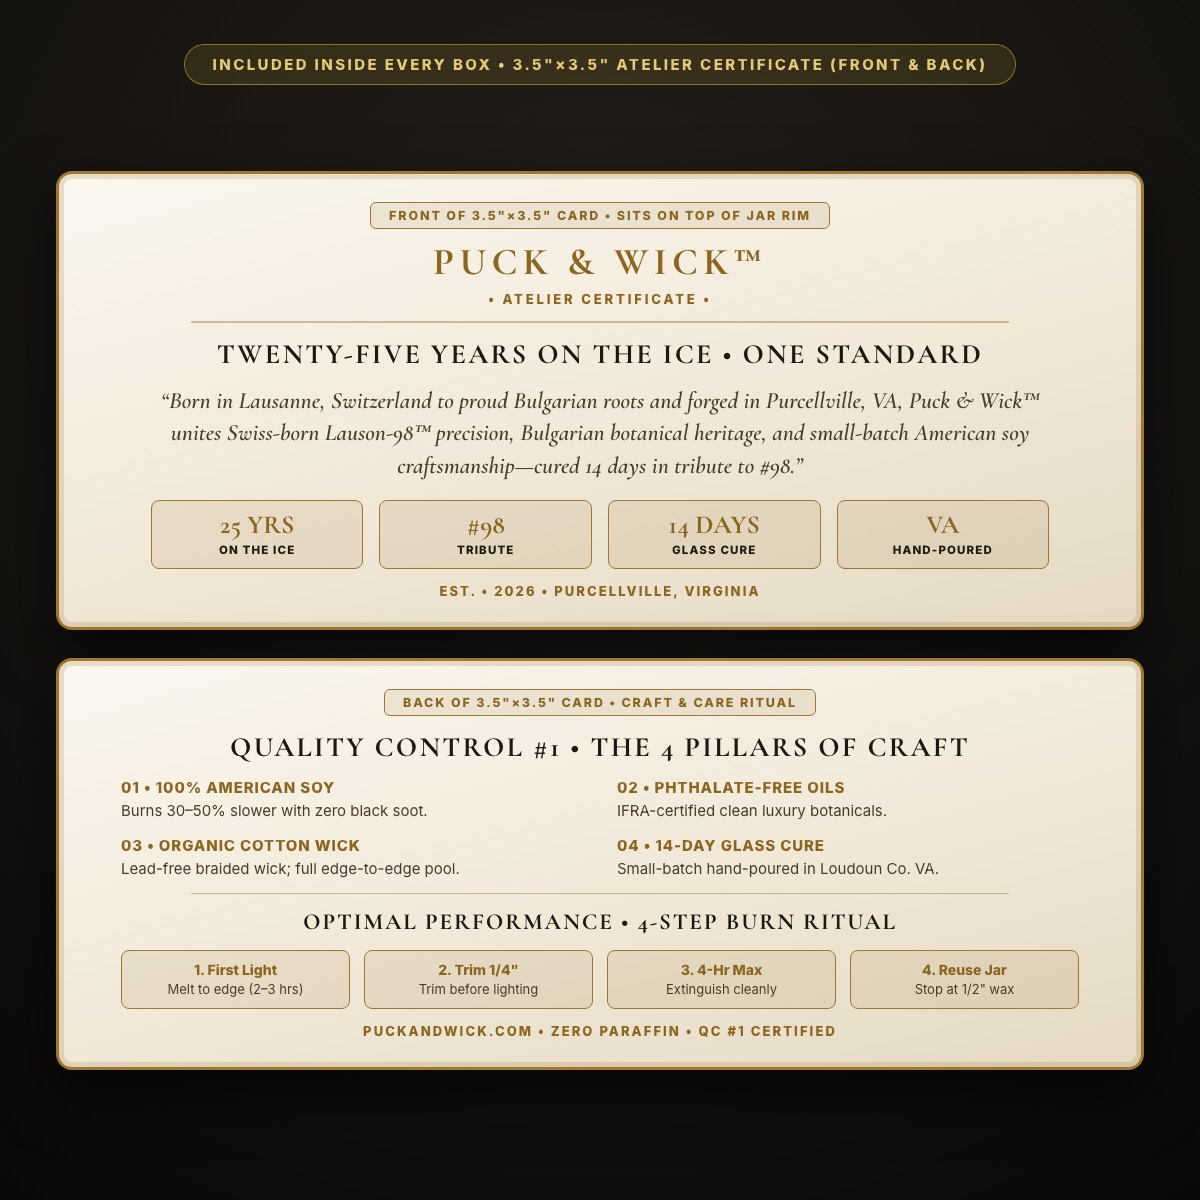
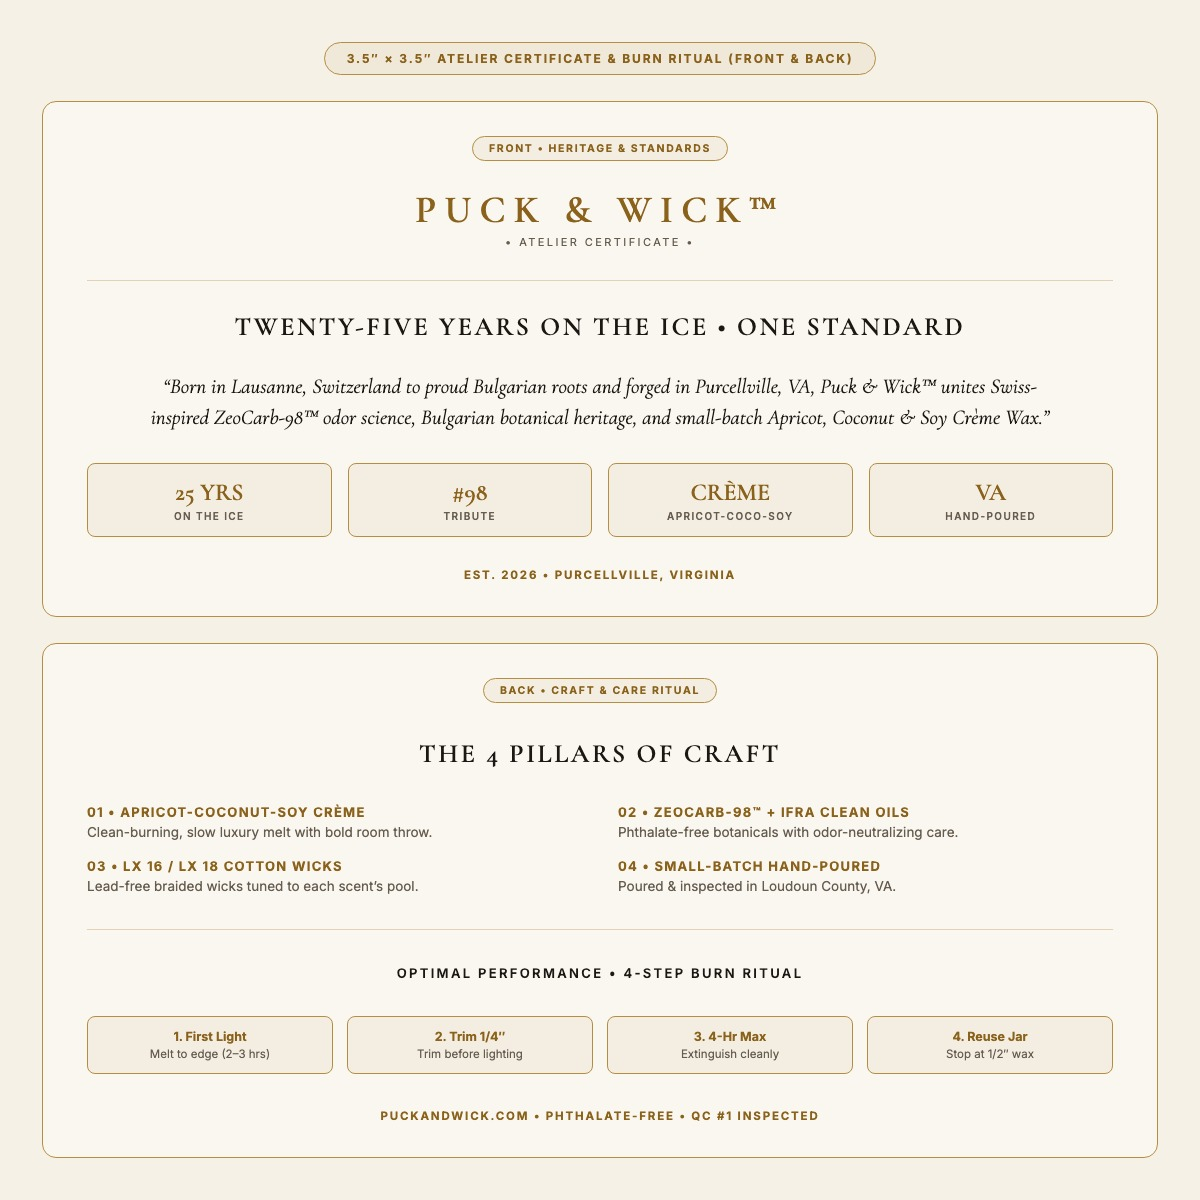
Simplify quick-view modal to Option A, update wicks to LX 16/LX 18, and refresh Atelier Cards

diff --git a/js/data/products.js b/js/data/products.js
@@ -29,9 +29,9 @@ export const PRODUCTS = [
     specUnitLabel: '10 oz Vessel (8.5 oz Fill)',
     burnTime: '55 - 65 hours',
     weightOz: 10,
-    vessel: '10 oz Heavy-Base Matte Obsidian Glass (8.5 oz / 240g Net Soy Fill) with Unbranded Brushed Gold Metal Lid',
+    vessel: '10 oz Matte Obsidian Glass (8.5 oz Fill) with Matte Black Lid',
     wax: 'Apricot, Coconut & American Soy Crème Wax + ZeoCarb-98™ Vapor Complex',
-    wick: 'Lead-Free Braided Organic Cotton Wick',
+    wick: 'LX 18 Braided Cotton Wick',
     description: 'Inspired by top-shelf snipes and championship prestige. A radiant, hypnotic master formulation opening with crushed crimson saffron threads and bitter almond, unfolding into airy Egyptian jasmine grandiflorum and Virginia white cedar, and anchored by crystalline ambergris, fir balsam resin, and warm amberwood.',
     notes: {
       top: ['Crimson Saffron Threads', 'Bitter Almond', 'Calabrian Bergamot'],
@@ -57,9 +57,9 @@ export const PRODUCTS = [
     specUnitLabel: '10 oz Vessel (8.5 oz Fill)',
     burnTime: '55 - 65 hours',
     weightOz: 10,
-    vessel: '10 oz Heavy-Base Matte Obsidian Glass (8.5 oz / 240g Net Soy Fill) with Unbranded Brushed Gold Metal Lid',
+    vessel: '10 oz Matte Obsidian Glass (8.5 oz Fill) with Matte Black Lid',
     wax: 'Apricot, Coconut & American Soy Crème Wax + ZeoCarb-98™ Vapor Complex',
-    wick: 'Lead-Free Braided Organic Cotton Wick',
+    wick: 'LX 18 Braided Cotton Wick',
     description: 'That sacred stillness when you step onto fresh sheet ice at 6:00 AM. Bright Italian bergamot and crisp grapefruit zest cut into sacred Japanese hinoki wood and frosted eucalyptus leaf, grounded by smoky earthy vetiver, warm amber, and sunlit orange blossom.',
     notes: {
       top: ['Italian Bergamot', 'Grapefruit Zest', 'Frosted Eucalyptus'],
@@ -85,9 +85,9 @@ export const PRODUCTS = [
     specUnitLabel: '10 oz Vessel (8.5 oz Fill)',
     burnTime: '55 - 65 hours',
     weightOz: 10,
-    vessel: '10 oz Heavy-Base Matte Obsidian Glass (8.5 oz / 240g Net Soy Fill) with Unbranded Brushed Gold Metal Lid',
+    vessel: '10 oz Matte Obsidian Glass (8.5 oz Fill) with Matte Black Lid',
     wax: 'Apricot, Coconut & American Soy Crème Wax + ZeoCarb-98™ Vapor Complex',
-    wick: 'Lead-Free Braided Organic Cotton Wick',
+    wick: 'LX 18 Braided Cotton Wick',
     description: 'Handcrafted exclusively in seasonal collaboration with The Blue Hydrangea boutique in Purcellville, VA. Captures the crisp scent of snow-laden Blue Ridge evergreens, resinous balsam fir, spiced clove bud, and smoky cedar embers.',
     notes: {
       top: ['Wild Juniper Berries', 'Fraser Pine', 'Spiced Clove Bud'],
@@ -117,9 +117,9 @@ export const PRODUCTS = [
     specUnitLabel: '10 oz Vessel (8.5 oz Fill)',
     burnTime: '55 - 65 hours',
     weightOz: 10,
-    vessel: '10 oz Heavy-Base Matte Obsidian Glass (8.5 oz / 240g Net Soy Fill) with Unbranded Brushed Gold Metal Lid',
+    vessel: '10 oz Matte Obsidian Glass (8.5 oz Fill) with Matte Black Lid',
     wax: 'Apricot, Coconut & American Soy Crème Wax + ZeoCarb-98™ Vapor Complex',
-    wick: 'Lead-Free Braided Organic Cotton Wick',
+    wick: 'LX 18 Braided Cotton Wick',
     description: 'The aromatic nostalgia of an outdoor pond hockey game followed by an open-fire tailgate. Aromatic red cedar boards, oiled leather glove patina, and crackling birchwood smoke softened by dark resinous musk.',
     notes: {
       top: ['Chilled Winter Air', 'Birchwood Smoke', 'Crushed Black Pepper'],
@@ -144,9 +144,9 @@ export const PRODUCTS = [
     specUnitLabel: '10 oz Vessel (8.5 oz Fill)',
     burnTime: '55 - 65 hours',
     weightOz: 10,
-    vessel: '10 oz Heavy-Base Matte Obsidian Glass (8.5 oz / 240g Net Soy Fill) with Unbranded Brushed Gold Metal Lid',
+    vessel: '10 oz Matte Obsidian Glass (8.5 oz Fill) with Matte Black Lid',
     wax: 'Apricot, Coconut & American Soy Crème Wax + ZeoCarb-98™ Vapor Complex',
-    wick: 'Lead-Free Braided Organic Cotton Wick',
+    wick: 'LX 18 Braided Cotton Wick',
     description: 'Engineered to wipe away mental fatigue and stale room air. A high-voltage surge of pure Tasmanian eucalyptus globulus, crushed garden spearmint, clary sage, and crisp mountain mineral salt.',
     notes: {
       top: ['Crushed Spearmint', 'Icy Peppermint Leaf', 'Lemon Rind'],
@@ -174,9 +174,9 @@ export const PRODUCTS = [
     specUnitLabel: '10 oz Vessel (8.5 oz Fill)',
     burnTime: '55 - 65 hours',
     weightOz: 10,
-    vessel: '10 oz Frosted Warm Ivory Glass (8.5 oz / 240g Net Soy Fill) with Unbranded Brushed Champagne-Gold Lid',
+    vessel: '10 oz Frosted Warm Ivory Glass (8.5 oz Fill) with Champagne-Gold Lid',
     wax: 'Apricot, Coconut & American Soy Crème Wax + ZeoCarb-98™ Vapor Complex',
-    wick: 'Lead-Free Braided Organic Cotton Wick',
+    wick: 'LX 16 / LX 18 Braided Cotton Wick',
     description: 'Poured in our signature Frosted Warm Ivory & Champagne-Gold Sanctuary vessel. A cozy, smoky winter sanctuary blend uniting warm spun cashmere and golden bergamot with dark smoked oud, Baltic amber, and creamy sandalwood.',
     notes: {
       top: ['Golden Bergamot', 'Smoked Birch'],
@@ -205,9 +205,9 @@ export const PRODUCTS = [
     specUnitLabel: '10 oz Vessel (8.5 oz Fill)',
     burnTime: '55 - 65 hours',
     weightOz: 10,
-    vessel: '10 oz Frosted Warm Ivory Glass (8.5 oz / 240g Net Soy Fill) with Unbranded Brushed Champagne-Gold Lid',
+    vessel: '10 oz Frosted Warm Ivory Glass (8.5 oz Fill) with Champagne-Gold Lid',
     wax: 'Apricot, Coconut & American Soy Crème Wax + ZeoCarb-98™ Vapor Complex',
-    wick: 'Lead-Free Braided Organic Cotton Wick',
+    wick: 'LX 16 / LX 18 Braided Cotton Wick',
     description: 'Poured in our signature Frosted Warm Ivory & Champagne-Gold Sanctuary vessel. Soft, enveloping, and effortlessly serene—bright bergamot opens into warm spun cashmere, soft vanilla, and creamy sandalwood over sheer skin musk.',
     notes: {
       top: ['Golden Bergamot', 'Powdered Vanilla'],
@@ -233,9 +233,9 @@ export const PRODUCTS = [
     specUnitLabel: '10 oz Vessel (8.5 oz Fill)',
     burnTime: '55 - 65 hours',
     weightOz: 10,
-    vessel: '10 oz Frosted Warm Ivory Glass (8.5 oz / 240g Net Soy Fill) with Unbranded Brushed Champagne-Gold Lid',
+    vessel: '10 oz Frosted Warm Ivory Glass (8.5 oz Fill) with Champagne-Gold Lid',
     wax: 'Apricot, Coconut & American Soy Crème Wax + ZeoCarb-98™ Vapor Complex',
-    wick: 'Lead-Free Braided Organic Cotton Wick',
+    wick: 'LX 16 / LX 18 Braided Cotton Wick',
     description: 'Poured in our Frosted Warm Ivory & Champagne-Gold Sanctuary vessel. A sensual, intoxicating balance of crushed green cardamom and warm papyrus layered over creamy Australian sandalwood heart, cured Madagascar vanilla bean pods, and golden benzoin resin.',
     notes: {
       top: ['Crushed Green Cardamom', 'Toasted Violet Leaf', 'Warm Papyrus'],
@@ -261,9 +261,9 @@ export const PRODUCTS = [
     specUnitLabel: '10 oz Vessel (8.5 oz Fill)',
     burnTime: '55 - 65 hours',
     weightOz: 10,
-    vessel: '10 oz Frosted Warm Ivory Glass (8.5 oz / 240g Net Soy Fill) with Unbranded Brushed Champagne-Gold Lid',
+    vessel: '10 oz Frosted Warm Ivory Glass (8.5 oz Fill) with Champagne-Gold Lid',
     wax: 'Apricot, Coconut & American Soy Crème Wax + ZeoCarb-98™ Vapor Complex',
-    wick: 'Lead-Free Braided Organic Cotton Wick',
+    wick: 'LX 16 / LX 18 Braided Cotton Wick',
     description: 'Poured in our Frosted Warm Ivory & Champagne-Gold Sanctuary vessel. A luminous, airy coastal-botanical composition pairing crystalline sea salt and ozonated mist with velvety night-blooming white orchid, wild freesia, and sun-bleached driftwood.',
     notes: {
       top: ['Crystalline Sea Salt', 'Ozonated Coastal Mist', 'Petitgrain Leaf'],

diff --git a/js/modules/modal.js b/js/modules/modal.js
@@ -123,25 +123,14 @@ export function openProductModal(productId, store, openCartCallback, initialSlid
             </div>
           </div>
 
-          <!-- Right: Product Scent & Specs Details -->
-          <div class="modal-details-column">
-            <div class="modal-kicker">
-              <span>QC #1 Certified Hand-Pour</span>
-              <span>•</span>
-              <span>Loudoun County, VA</span>
-            </div>
-
+          <!-- Right: Product Scent & Specs Details (Option A: Clean Minimalist Editorial) -->
+          <div class="modal-details-column modal-option-a">
             <h2 id="modal-product-title" class="modal-title">${product.name}</h2>
-            <div class="modal-tagline">${product.tagline}</div>
 
             <div class="modal-price-row">
-              <span class="modal-price" data-testid="modal-price" style="font-size:1.05rem;letter-spacing:0.06em;text-transform:uppercase;">${product.inStockLocal ? 'In Stock Locally' : product.outOfStock ? 'Out of Stock' : 'Batch 01 • VIP Waitlist'}</span>
-              <span class="modal-burn-badge" data-testid="product-burn-time">${product.productType === 'odor_care' ? product.burnTime : `${product.burnTime} Slow Burn`}</span>
-            </div>
-
-            <div class="modal-included-callout" data-testid="modal-included-callout">
-              <span class="included-callout-badge">WHAT YOU RECEIVE</span>
-              <span class="included-callout-text">${product.includedSummary || `SOLD INDIVIDUALLY • Includes 1x 10 oz (${product.name}) Hand-Poured Soy Candle, Two-Piece Collector Box, Circular Wax Dust Guard & 3.5"×3.5" Atelier Certificate Card.`}</span>
+              <span class="modal-price" data-testid="modal-price">${product.inStockLocal ? 'In Stock Locally' : product.outOfStock ? 'Out of Stock' : 'Batch 01 • VIP Waitlist'}</span>
+              <span class="modal-meta-dot" aria-hidden="true">&bull;</span>
+              <span class="modal-burn-badge" data-testid="product-burn-time">${product.productType === 'odor_care' ? product.burnTime : `${product.burnTime} Burn`}</span>
             </div>
 
             <p class="modal-description">${product.description}</p>
@@ -175,52 +164,26 @@ export function openProductModal(productId, store, openCartCallback, initialSlid
               </div>
             ` : ''}
 
-            <!-- 3-Tier Scent Pyramid Breakdown -->
-            <div class="scent-pyramid-block">
-              <div class="scent-pyramid-heading">
-                <svg xmlns="http://www.w3.org/2000/svg" viewBox="0 0 24 24" fill="currentColor" class="pyramid-icon" aria-hidden="true"><polygon points="12 2 2 22 22 22"/></svg>
-                <span>${product.productType === 'odor_care' ? '3-Tier Active &amp; Botanical Architecture' : '3-Tier Fragrance Architecture'}</span>
+            <!-- Clean 3-Line Scent Notes List -->
+            <div class="modal-option-a-notes">
+              <div class="a-note-line">
+                <span class="a-note-label">Top</span>
+                <span class="a-note-val" data-testid="scent-notes-top">${product.notes.top.join(', ')}</span>
               </div>
-
-              <!-- Top Notes -->
-              <div class="pyramid-tier">
-                <span class="tier-label">Top Notes:</span>
-                <div class="tier-pills notes-top" data-testid="scent-notes-top">
-                  ${product.notes.top.map(n => `<span class="note-pill note-top">${n}</span>`).join('')}
-                </div>
+              <div class="a-note-line">
+                <span class="a-note-label">Heart</span>
+                <span class="a-note-val" data-testid="scent-notes-middle">${product.notes.middle.join(', ')}</span>
               </div>
-
-              <!-- Middle Notes -->
-              <div class="pyramid-tier">
-                <span class="tier-label">Middle / Heart:</span>
-                <div class="tier-pills notes-middle" data-testid="scent-notes-middle">
-                  ${product.notes.middle.map(n => `<span class="note-pill note-middle">${n}</span>`).join('')}
-                </div>
-              </div>
-
-              <!-- Base Notes -->
-              <div class="pyramid-tier">
-                <span class="tier-label">Base Notes:</span>
-                <div class="tier-pills notes-base" data-testid="scent-notes-base">
-                  ${product.notes.base.map(n => `<span class="note-pill note-base">${n}</span>`).join('')}
-                </div>
+              <div class="a-note-line">
+                <span class="a-note-label">Base</span>
+                <span class="a-note-val" data-testid="scent-notes-base">${product.notes.base.join(', ')}</span>
               </div>
             </div>
 
-            <!-- Craft & Vessel Specifications -->
-            <div class="modal-specs-grid">
-              <div class="spec-item">
-                <span class="spec-label">Vessel Finish</span>
-                <span class="spec-value vessel-specs" data-testid="product-vessel-specs">${product.vessel}</span>
-              </div>
-              <div class="spec-item">
-                <span class="spec-label">${product.productType === 'odor_care' ? 'Active Formulation' : 'Wax Formulation'}</span>
-                <span class="spec-value">${product.wax}</span>
-              </div>
-              <div class="spec-item">
-                <span class="spec-label">${product.productType === 'odor_care' ? 'Delivery System' : 'Wick Engineering'}</span>
-                <span class="spec-value">${product.wick}</span>
-              </div>
+            <!-- Single-Line Craft & Vessel Summary -->
+            <div class="modal-option-a-specs">
+              <span class="vessel-specs" data-testid="product-vessel-specs">${product.vessel}</span>
+              &bull; ${product.wax} &bull; ${product.wick}
             </div>
 
             <!-- Quantity & Add to Cart Controls -->

diff --git a/css/modal.css b/css/modal.css
@@ -995,3 +995,89 @@
     justify-content: center;
   }
 }
+
+
+/* Modal Option A — Clean Editorial Minimalist */
+.modal-details-column.modal-option-a .modal-title {
+  font-size: clamp(2rem, 3vw, 2.5rem);
+  line-height: 1.08;
+  margin-bottom: 0.65rem;
+}
+
+.modal-details-column.modal-option-a .modal-price-row {
+  display: flex;
+  align-items: center;
+  gap: 0.65rem;
+  border: none;
+  padding: 0;
+  margin-bottom: 1.15rem;
+}
+
+.modal-details-column.modal-option-a .modal-price {
+  font-size: 0.72rem;
+  letter-spacing: 0.14em;
+  text-transform: uppercase;
+  color: #E5C878;
+  font-weight: 600;
+}
+
+.modal-meta-dot {
+  color: rgba(229, 200, 120, 0.45);
+}
+
+.modal-details-column.modal-option-a .modal-burn-badge {
+  background: transparent;
+  border: none;
+  padding: 0;
+  font-size: 0.72rem;
+  letter-spacing: 0.14em;
+  text-transform: uppercase;
+  color: #E5C878;
+  font-weight: 600;
+}
+
+.modal-details-column.modal-option-a .modal-description {
+  font-size: 0.92rem;
+  line-height: 1.65;
+  color: #B8B1A6;
+  margin-bottom: 1.25rem;
+}
+
+.modal-option-a-notes {
+  border-top: 1px solid rgba(255, 255, 255, 0.09);
+  border-bottom: 1px solid rgba(255, 255, 255, 0.09);
+  padding: 1rem 0;
+  margin-bottom: 1rem;
+  display: flex;
+  flex-direction: column;
+  gap: 0.55rem;
+}
+
+.a-note-line {
+  display: flex;
+  align-items: baseline;
+  gap: 0.85rem;
+  font-size: 0.84rem;
+  line-height: 1.45;
+}
+
+.a-note-label {
+  width: 48px;
+  flex-shrink: 0;
+  font-size: 0.68rem;
+  font-weight: 700;
+  letter-spacing: 0.14em;
+  text-transform: uppercase;
+  color: #C5A059;
+}
+
+.a-note-val {
+  color: #EAE3D5;
+}
+
+.modal-option-a-specs {
+  font-size: 0.76rem;
+  line-height: 1.55;
+  color: #8E8678;
+  margin-bottom: 1.35rem;
+}
